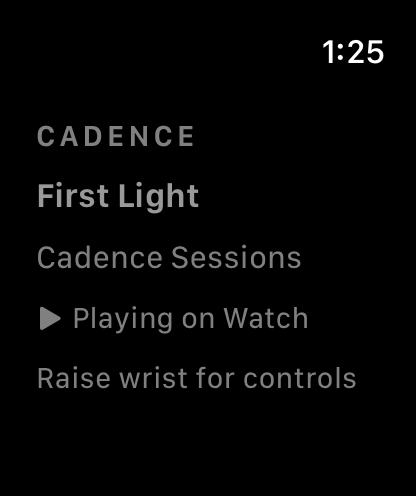
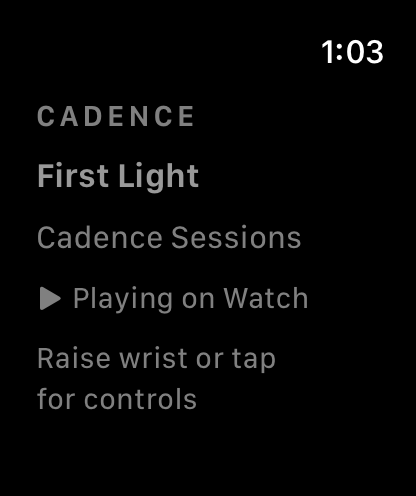
fix: recover Watch playback controls on wake
Restore controls when the scene activates ahead of luminance updates, retain player/navigation and volume identity through dimming, and provide a tap recovery action. Preserve active Watch playback when automatic phone activity arrives.

Verify 17 native UI cases on each simulator size, including repeated wrist states, accessibility, and background/dimmed playback beyond 30 seconds. The physical Series 9 stop and return-to-clock report still requires device confirmation.

diff --git a/Apps/Watch/WatchViews.swift b/Apps/Watch/WatchViews.swift
@@ -4,46 +4,58 @@ import CadenceCore
 
 struct WatchRoot:View {
     @Environment(\.isLuminanceReduced) private var dimmed
+    @Environment(\.scenePhase) private var phase
     @EnvironmentObject var store:WatchStore
     @State private var tab=0
     @State private var choosingSource=false
+    @State private var requestedControls=false
     @AppStorage("playbackSource") private var source="watch"
+    // Lifecycle and luminance notifications can arrive in either order on wake.
+    private var ambient:Bool{dimmed && phase != .active && !requestedControls}
     private var deviceName:String{source=="phone" ? "iPhone" : source=="mac" ? "Mac" : "This Watch"}
     private var deviceIcon:String{source=="phone" ? "iphone" : source=="mac" ? "laptopcomputer" : "applewatch"}
     var body:some View {
-        Group{
-        if dimmed{NavigationStack{WatchAmbientPlayer(audio:store.audio,bridge:store.bridge,source:source)}.navigationBarTitleDisplayMode(.inline)}
-        else{NavigationStack{
-            Group{
-                if source=="phone" || source=="mac"{
-                    PhoneRemoteView(bridge:store.bridge,target:source,useOffline:{source="watch";tab=0},controlsActive:!choosingSource).id(source)
-                }else{
-                    TabView(selection:$tab){
-                        WatchMixView(local:store.local,audio:store.audio,onPlay:{song in store.play(song);tab=1}).tag(0)
-                        WatchPlayer(audio:store.audio,local:store.local,showLibrary:{tab=0},crownActive:tab==1 && !choosingSource).tag(1)
-                        WatchSettings(local:store.local,bridge:store.bridge).tag(2)
-                    }.tabViewStyle(.page(indexDisplayMode:.automatic))
-                }
+        NavigationStack{
+            ZStack{
+                ZStack{content}.opacity(ambient ? 0 : 1).allowsHitTesting(!ambient).accessibilityElement(children:.contain).accessibilityHidden(ambient)
+                if ambient{WatchAmbientPlayer(audio:store.audio,bridge:store.bridge,source:source,showControls:{requestedControls=true;showPlayer()})}
             }.navigationBarTitleDisplayMode(.inline).toolbar{
-                ToolbarItem(placement:.topBarLeading){
-                    Button{choosingSource=true}label:{HStack(spacing:4){Image(systemName:deviceIcon);Text(source=="watch" ? "Watch" : deviceName);Image(systemName:"chevron.down").font(.caption2)}.font(.caption2.weight(.semibold))}.buttonStyle(.plain).foregroundStyle(watchLime).accessibilityLabel("Playback device: "+deviceName).accessibilityHint("Choose Watch, iPhone or Mac").accessibilityIdentifier("watch.device")
+                if !ambient{
+                    ToolbarItem(placement:.topBarLeading){
+                        Button{choosingSource=true}label:{HStack(spacing:4){Image(systemName:deviceIcon);Text(source=="watch" ? "Watch" : deviceName);Image(systemName:"chevron.down").font(.caption2)}.font(.caption2.weight(.semibold))}.buttonStyle(.plain).foregroundStyle(watchLime).accessibilityLabel("Playback device: "+deviceName).accessibilityHint("Choose Watch, iPhone or Mac").accessibilityIdentifier("watch.device")
+                    }
                 }
             }
-        }}
         }.sheet(isPresented:$choosingSource){WatchSourcePicker(source:$source)}
-            .onChange(of:dimmed){_,value in if value{choosingSource=false}else if source=="watch",store.audio.current != nil{tab=1}}
+            .onChange(of:phase){_,value in
+                if value == .active{showPlayer()}
+                else{requestedControls=false;choosingSource=false}
+            }
+            .onChange(of:dimmed){_,value in if !value{requestedControls=false}else if phase != .active{choosingSource=false}}
             .onChange(of:source){_,value in
                 if value=="phone" || value=="mac"{store.audio.pause();store.bridge.requestPlayback(target:value)}
                 else{tab=store.audio.current == nil ? 0 : 1}
             }
             .onAppear{
                 if !["phone","mac","watch"].contains(source) || ProcessInfo.processInfo.arguments.contains("--demo"){source="watch"}
-                if store.audio.current != nil{tab=1}
+                showPlayer()
                 #if DEBUG
                 if ProcessInfo.processInfo.arguments.contains("--watch-ui-testing"),ProcessInfo.processInfo.arguments.contains("--remote-now-playing"){WatchDelegate().handleRemoteNowPlayingActivity()}
                 #endif
             }
     }
+    @ViewBuilder private var content:some View {
+        if source=="phone" || source=="mac"{
+            PhoneRemoteView(bridge:store.bridge,target:source,useOffline:{source="watch";tab=0},controlsActive:!choosingSource && !ambient).id(source)
+        }else{
+            TabView(selection:$tab){
+                WatchMixView(local:store.local,audio:store.audio,onPlay:{song in store.play(song);tab=1}).tag(0)
+                WatchPlayer(audio:store.audio,local:store.local,showLibrary:{tab=0},crownActive:tab==1 && !choosingSource && !ambient).tag(1)
+                WatchSettings(local:store.local,bridge:store.bridge).tag(2)
+            }.tabViewStyle(.page(indexDisplayMode:.automatic))
+        }
+    }
+    private func showPlayer(){if source=="watch",store.audio.current != nil{tab=1}}
 }
 
 struct WatchSourcePicker:View {
@@ -154,9 +166,7 @@ struct WatchPlayer:View {
                 if let song=audio.current{
                     HStack(spacing:4){
                         WatchTrackHeading(song:song,showsArtwork:false)
-                        if crownActive && scenePhase == .active && presented==nil{
-                            WatchVolume(active:!voiceOver).frame(width:50,height:50).accessibilityLabel("Watch volume").accessibilityHint("Turn the Digital Crown to adjust headphone volume").accessibilityIdentifier("watch.volume")
-                        }else{Image(systemName:"speaker.wave.2.fill").frame(width:50,height:50).accessibilityHidden(true)}
+                        WatchVolume(active:crownActive && scenePhase == .active && presented==nil && !voiceOver).frame(width:50,height:50).accessibilityLabel("Watch volume").accessibilityHint("Turn the Digital Crown to adjust headphone volume").accessibilityIdentifier("watch.volume")
                     }
                     WatchTransport(isPlaying:audio.isPlaying,device:"Watch",previous:{audio.previous()},toggle:{audio.toggle()},next:{audio.next()})
                     Button{presented = .seek}label:{VStack(spacing:3){ProgressView(value:min(max(0,audio.elapsed),max(audio.duration,1)),total:max(audio.duration,1)).tint(watchLime);HStack{Text(watchTime(audio.elapsed));Spacer();Text(watchTime(audio.duration))}.font(.caption2.monospacedDigit()).foregroundStyle(.secondary)}.frame(minHeight:44).contentShape(Rectangle())}.buttonStyle(.plain).disabled(audio.duration<=0).accessibilityLabel("Seek in track").accessibilityValue(watchTime(audio.elapsed)+" of "+watchTime(audio.duration)).accessibilityIdentifier("watch.seek")
@@ -179,6 +189,8 @@ struct WatchPlayer:View {
             case .seek:if let song=audio.current{WatchSeekView(song:song,elapsed:audio.elapsed,duration:audio.duration,commit:{if audio.current?.id==song.id{audio.seek($0)}})}
             }
         }.onChange(of:audio.current?.id){_,_ in if presented == .seek{presented=nil}}
+            .onChange(of:scenePhase){_,value in if value != .active{presented=nil}}
+            .onChange(of:crownActive){_,value in if !value{presented=nil}}
     }
 }
 

diff --git a/Tests/WatchUI/CadenceWatchUITests.swift b/Tests/WatchUI/CadenceWatchUITests.swift
@@ -28,6 +28,72 @@ final class CadenceWatchUITests:XCTestCase {
         reveal(apply,in:app);apply.tap();XCTAssertTrue(transport.waitForExistence(timeout:5))
         if transport.label=="Pause Watch"{transport.tap()}
     }
+    func testAutomaticPhoneActivityDoesNotStopWatchPlayback(){
+        let app=XCUIApplication();app.launchArguments=["--demo","--watch-ui-testing","--watch-lifecycle-fixture"];app.launch()
+        let play=app.buttons["watch.play"];XCTAssertTrue(play.waitForExistence(timeout:15));play.tap()
+        let transport=app.buttons["watch.transport.play"]
+        XCTAssertEqual(XCTWaiter.wait(for:[XCTNSPredicateExpectation(predicate:NSPredicate(format:"label == %@","Pause Watch"),object:transport)],timeout:8),.completed)
+        app.buttons["watch.fixture.phone-event"].tap()
+        XCTAssertEqual(app.buttons["watch.device"].firstMatch.label,"Playback device: This Watch","An automatic phone event must not take over an active Watch session")
+        XCTAssertTrue(transport.exists);XCTAssertEqual(transport.label,"Pause Watch")
+    }
+    func testDimmedScreenCanBeTappedToShowControls(){
+        let app=XCUIApplication();app.launchArguments=["--demo","--watch-ui-testing","--watch-lifecycle-fixture"];app.launch()
+        let play=app.buttons["watch.play"];XCTAssertTrue(play.waitForExistence(timeout:15));play.tap()
+        let transport=app.buttons["watch.transport.play"];XCTAssertTrue(transport.waitForExistence(timeout:8))
+        app.buttons["watch.fixture.lifecycle"].tap()
+        let ambient=app.buttons["watch.ambient"];XCTAssertTrue(ambient.waitForExistence(timeout:5));ambient.tap()
+        XCTAssertTrue(transport.waitForExistence(timeout:5));XCTAssertTrue(transport.isHittable)
+    }
+    func testWakeRestoresControlsBeforeLuminanceRefresh(){
+        let app=XCUIApplication();app.launchArguments=["--demo","--watch-ui-testing","--watch-lifecycle-fixture"];app.launch()
+        let play=app.buttons["watch.play"];XCTAssertTrue(play.waitForExistence(timeout:15));play.tap()
+        let transport=app.buttons["watch.transport.play"];XCTAssertTrue(transport.waitForExistence(timeout:8))
+        XCTAssertEqual(XCTWaiter.wait(for:[XCTNSPredicateExpectation(predicate:NSPredicate(format:"label == %@","Pause Watch"),object:transport)],timeout:8),.completed)
+        transport.tap()
+        let lifecycle=app.buttons["watch.fixture.lifecycle"]
+        for _ in 0..<3{
+            lifecycle.tap();XCTAssertTrue(app.descendants(matching:.any)["watch.ambient"].firstMatch.waitForExistence(timeout:5))
+            lifecycle.tap()
+            XCTAssertTrue(transport.waitForExistence(timeout:5),"An active scene must restore controls even before the luminance signal catches up")
+            XCTAssertTrue(transport.isHittable);XCTAssertEqual(transport.label,"Play Watch")
+            lifecycle.tap()
+        }
+        let queue=app.buttons["watch.queue"];reveal(queue,in:app);queue.tap()
+        XCTAssertTrue(app.staticTexts["Up next · 2"].waitForExistence(timeout:5),"Wrist transitions must preserve the queue")
+    }
+    func testPlaybackAdvancesWhileDimmedAndRestoresOnWake(){
+        let app=XCUIApplication();app.launchArguments=["--demo","--watch-ui-testing","--watch-lifecycle-fixture"];app.launch()
+        let play=app.buttons["watch.play"];XCTAssertTrue(play.waitForExistence(timeout:15));play.tap()
+        let transport=app.buttons["watch.transport.play"]
+        XCTAssertEqual(XCTWaiter.wait(for:[XCTNSPredicateExpectation(predicate:NSPredicate(format:"label == %@","Pause Watch"),object:transport)],timeout:8),.completed)
+        app.buttons["watch.fixture.lifecycle"].tap()
+        XCTAssertTrue(app.buttons["watch.ambient"].waitForExistence(timeout:5))
+        let elapsed=expectation(description:"Thirty-five seconds in the dimmed layout")
+        DispatchQueue.main.asyncAfter(deadline:.now()+35){elapsed.fulfill()}
+        XCTAssertEqual(XCTWaiter.wait(for:[elapsed],timeout:38),.completed)
+        app.buttons["watch.fixture.lifecycle"].tap()
+        XCTAssertTrue(transport.waitForExistence(timeout:8));XCTAssertEqual(transport.label,"Pause Watch")
+        let heading=app.descendants(matching:.any)["watch.track"].firstMatch
+        XCTAssertTrue(heading.waitForExistence(timeout:5));XCTAssertFalse(heading.label.contains("First Light"))
+        capture("Watch after dimmed playback and wake");transport.tap()
+    }
+    func testPlaybackContinuesPastThirtySecondsInBackground(){
+        let app=launch(),play=app.buttons["watch.play"];XCTAssertTrue(play.waitForExistence(timeout:15));play.tap()
+        let transport=app.buttons["watch.transport.play"]
+        XCTAssertTrue(transport.waitForExistence(timeout:8))
+        XCTAssertEqual(XCTWaiter.wait(for:[XCTNSPredicateExpectation(predicate:NSPredicate(format:"label == %@","Pause Watch"),object:transport)],timeout:8),.completed)
+        XCUIDevice.shared.press(.home)
+        let elapsed=expectation(description:"Thirty-five seconds with the app backgrounded")
+        DispatchQueue.main.asyncAfter(deadline:.now()+35){elapsed.fulfill()}
+        XCTAssertEqual(XCTWaiter.wait(for:[elapsed],timeout:38),.completed)
+        app.activate()
+        XCTAssertTrue(transport.waitForExistence(timeout:8));XCTAssertEqual(transport.label,"Pause Watch")
+        let heading=app.descendants(matching:.any)["watch.track"].firstMatch
+        XCTAssertTrue(heading.waitForExistence(timeout:5));XCTAssertFalse(heading.label.contains("First Light"),"Audio must advance beyond the first twenty-second demo track while backgrounded")
+        capture("Watch after background playback")
+        transport.tap()
+    }
     func testCrownDoesNotScrollTheNowPlayingControls(){
         let app=launch(),play=app.buttons["watch.play"];XCTAssertTrue(play.waitForExistence(timeout:15));reveal(play,in:app);play.tap()
         let transport=app.buttons["watch.transport.play"];XCTAssertTrue(transport.waitForExistence(timeout:8));let initial=transport.frame.minY
@@ -82,9 +148,10 @@ final class CadenceWatchUITests:XCTestCase {
     func testLargeTextDimmedLayout(){ambientFlow(largeText:true)}
     private func ambientFlow(largeText:Bool=false){
         let app=XCUIApplication();app.launchArguments=["--demo","--watch-ui-testing","--watch-dimmed"];if largeText{app.launchArguments.append("--watch-large-text")};app.launch()
-        XCTAssertTrue(app.otherElements["watch.ambient"].firstMatch.waitForExistence(timeout:10),"Wrist-down mode must use the ambient player")
+        XCTAssertTrue(app.descendants(matching:.any)["watch.ambient"].firstMatch.waitForExistence(timeout:10),"Wrist-down mode must use the ambient player")
         XCTAssertTrue(app.staticTexts["First Light"].exists)
-        XCTAssertFalse(app.buttons["watch.transport.play"].exists,"Bright transport controls must not remain in Always On mode")
+        XCTAssertFalse(app.buttons["watch.transport.play"].isHittable,"The retained transport must be hidden and untappable in Always On mode")
+        XCTAssertNoThrow(try app.performAccessibilityAudit(for:[.hitRegion,.sufficientElementDescription,.contrast,.trait]))
         capture("Watch dimmed player")
     }
     func testDisconnectedMacOffersSavedWatchMusic(){

diff --git a/Apps/Watch/WatchAmbientPlayer.swift b/Apps/Watch/WatchAmbientPlayer.swift
@@ -7,20 +7,25 @@ struct WatchAmbientPlayer:View {
     let audio:AudioController
     let bridge:WatchBridge
     let source:String
+    var showControls:()->Void
     @State private var song:Song?
     @State private var playing=false
     private var device:String{source=="mac" ? "Mac" : source=="phone" ? "iPhone" : "Watch"}
     var body:some View {
-        VStack(alignment:.leading,spacing:9){
+        Button(action:showControls){VStack(alignment:.leading,spacing:9){
             if textSize < .xxxLarge{Text("CADENCE").font(.caption2.weight(.semibold)).tracking(2).foregroundStyle(Color(white:0.5)).accessibilityHidden(true)}
             Text(song?.title ?? "No track selected").font(.headline).lineLimit(3).foregroundStyle(Color(white:0.6))
             if let song{Text(song.subtitle).font(.caption).lineLimit(1).foregroundStyle(Color(white:0.5))}
             Label(source=="watch" ? (playing ? "Playing on Watch" : "Paused on Watch") : "On "+device,systemImage:playing ? "play.fill" : "pause.fill").font(.caption2).foregroundStyle(Color(white:0.5))
-            if textSize < .xxxLarge{Text("Raise wrist for controls").font(.caption2).foregroundStyle(Color(white:0.5))}
-        }.frame(maxWidth:.infinity,maxHeight:.infinity,alignment:.leading).padding(.horizontal,16).background(Color.black).accessibilityElement(children:.contain).accessibilityIdentifier("watch.ambient")
+            if textSize < .xxxLarge{Text("Raise wrist or tap for controls").font(.caption2).foregroundStyle(Color(white:0.5))}
+        }.frame(maxWidth:.infinity,maxHeight:.infinity,alignment:.leading).padding(.horizontal,16).background(Color.black)}.buttonStyle(.plain).accessibilityHint("Show playback controls").accessibilityIdentifier("watch.ambient")
             // Ignore elapsed-time ticks: the dimmed screen only needs track/playing changes.
-            .onReceive(audio.$current.combineLatest(audio.$isPlaying).removeDuplicates{$0.0==$1.0 && $0.1==$1.1}){value in if source=="watch"{song=value.0;playing=value.1}}
-            .onReceive(bridge.$phonePlayback.removeDuplicates{$0?.song==$1?.song && $0?.isPlaying==$1?.isPlaying}){value in if source=="phone"{song=value?.song;playing=value?.isPlaying ?? false}}
-            .onReceive(bridge.$macRemote.map(\.playback).removeDuplicates{$0?.song==$1?.song && $0?.isPlaying==$1?.isPlaying}){value in if source=="mac"{song=value?.song;playing=value?.isPlaying ?? false}}
+            .onReceive(audio.$current.combineLatest(audio.$isPlaying).removeDuplicates{$0.0==$1.0 && $0.1==$1.1}){value in if source=="watch"{update(value.0,playing:value.1)}}
+            .onReceive(bridge.$phonePlayback.removeDuplicates{$0?.song==$1?.song && $0?.isPlaying==$1?.isPlaying}){value in if source=="phone"{update(value?.song,playing:value?.isPlaying ?? false)}}
+            .onReceive(bridge.$macRemote.map(\.playback).removeDuplicates{$0?.song==$1?.song && $0?.isPlaying==$1?.isPlaying}){value in if source=="mac"{update(value?.song,playing:value?.isPlaying ?? false)}}
+    }
+    private func update(_ value:Song?,playing running:Bool){
+        if song != value{song=value}
+        if playing != running{playing=running}
     }
 }

diff --git a/Apps/Watch/CadenceWatchApp.swift b/Apps/Watch/CadenceWatchApp.swift
@@ -12,13 +12,33 @@ import WatchKit
                 #if DEBUG
                 if ProcessInfo.processInfo.arguments.contains("--watch-ui-testing"),ProcessInfo.processInfo.arguments.contains("--watch-dimmed"){reduced=true}
                 #endif
+            }.transformEnvironment(\.scenePhase){phase in
+                #if DEBUG
+                if ProcessInfo.processInfo.arguments.contains("--watch-ui-testing"),ProcessInfo.processInfo.arguments.contains("--watch-dimmed"){phase = .inactive}
+                #endif
             }.environmentObject(store).tint(Color(red:0.84,green:0.96,blue:0.4)).preferredColorScheme(.dark).onChange(of:scenePhase){_,phase in if phase != .active{store.audio.persist()}}}}
     @ViewBuilder private var rootView:some View {
         #if DEBUG
-        if ProcessInfo.processInfo.arguments.contains("--watch-ui-testing"),ProcessInfo.processInfo.arguments.contains("--remote-volume-fixture"){WatchRemoteVolumeFixture()}else{WatchRoot()}
+        if ProcessInfo.processInfo.arguments.contains("--watch-ui-testing"),ProcessInfo.processInfo.arguments.contains("--watch-lifecycle-fixture"){WatchLifecycleFixture()}else if ProcessInfo.processInfo.arguments.contains("--watch-ui-testing"),ProcessInfo.processInfo.arguments.contains("--remote-volume-fixture"){WatchRemoteVolumeFixture()}else{WatchRoot()}
         #else
         WatchRoot()
         #endif
     }
 
 }
+
+#if DEBUG
+private struct WatchLifecycleFixture:View {
+    @State private var step=0
+    var body:some View {
+        WatchRoot().environment(\.scenePhase,step==1 ? .inactive : .active)
+            .environment(\.isLuminanceReduced,step != 0)
+            .overlay(alignment:.bottomLeading){Button("Phone event"){WatchDelegate().handleRemoteNowPlayingActivity()}.font(.caption2).buttonStyle(.plain).padding(5).background(.black,in:Capsule()).accessibilityIdentifier("watch.fixture.phone-event")}
+            .overlay(alignment:.bottomTrailing){
+                Button(step==0 ? "Lower wrist" : step==1 ? "Raise wrist" : "Finish wake"){step=(step+1)%3}
+                    .font(.caption2).buttonStyle(.plain).padding(5).background(.black,in:Capsule())
+                    .accessibilityIdentifier("watch.fixture.lifecycle")
+            }
+    }
+}
+#endif

diff --git a/Apps/Watch/PhoneRemoteView.swift b/Apps/Watch/PhoneRemoteView.swift
@@ -47,6 +47,7 @@ struct PhoneRemoteView:View {
             }.padding(.horizontal,6).padding(.top,4).padding(.bottom,14)
         }.sheet(isPresented:$seeking){if let state,let song=state.song{WatchSeekView(song:song,elapsed:state.elapsed,duration:state.duration,commit:{if connected,self.state?.song?.id==song.id{control(.seek,value:$0)}})}}
             .onChange(of:state?.song?.id){_,_ in seeking=false}
+            .onChange(of:controlsActive){_,value in if !value{seeking=false}}
             .task(id:scenePhase){
                 guard scenePhase == .active else{return}
                 while !Task.isCancelled{

diff --git a/Apps/Watch/WatchStore.swift b/Apps/Watch/WatchStore.swift
@@ -88,7 +88,8 @@ import CadenceCore
     func applicationDidFinishLaunching(){_ = WatchStore.shared;_ = WatchBackgroundTracker.shared}
     func handleRemoteNowPlayingActivity(){
         let store=WatchStore.shared
-        store.audio.pause()
+        // Automatic activity may arrive late; only an explicit device choice can stop a run.
+        guard !store.audio.isPlaying else{return}
         UserDefaults.standard.set("phone",forKey:"playbackSource")
         store.bridge.requestPlayback(target:"phone")
     }

diff --git a/Apps/Watch/WatchPlaybackViews.swift b/Apps/Watch/WatchPlaybackViews.swift
@@ -19,7 +19,7 @@ struct WatchTrackHeading:View {
                 Text(song.title).font(.headline).lineLimit(2)
                 Text(song.subtitle).font(.caption2).foregroundStyle(.secondary).lineLimit(1)
             }.frame(maxWidth:.infinity,alignment:.leading)
-        }.accessibilityElement(children:.combine)
+        }.accessibilityElement(children:.combine).accessibilityIdentifier("watch.track")
     }
 }
 

diff --git a/docs/WATCH-ACCESSIBILITY.md b/docs/WATCH-ACCESSIBILITY.md
@@ -2,15 +2,15 @@
 
 Cadence uses native watchOS controls and the existing iPhone/Mac companion protocol. This review covers the music player, not every optional Apple Watch capability. Hardware behavior and battery measurements are separate from simulator verification.
 
-## Implemented baseline in 0.7.4
+## Implemented baseline in 0.7.5
 
 | Feature | Implementation and verification boundary |
 |---|---|
 | Digital Crown: Watch audio | The visible player gives Apple's local volume control focus. Focus is released for another page, a sheet, an inactive scene or VoiceOver. Crown input no longer scrolls the player in the regression test. Real headphone loudness still needs a device check. |
 | Digital Crown: iPhone/Mac | The volume control adjusts the existing Cadence player volume command, bounded to 0–100%, with coalesced messages. A real Crown-input fixture verifies the component's output; it does not certify a live peer connection. |
-| Always On | `isLuminanceReduced` switches to a black, gray-text player without artwork, bright fills or playback buttons. It observes track/playing changes without subscribing to elapsed-time ticks. watchOS controls physical brightness; no measured battery saving is claimed. |
+| Always On | Reduced luminance while inactive shows a black, gray-text player without artwork or bright fills. An active scene restores controls even if the luminance notification is delayed. Tapping the dimmed display also shows controls. The normal player/navigation hierarchy stays mounted. It observes track/playing changes without subscribing to elapsed-time ticks. watchOS controls physical brightness; no measured battery saving is claimed. |
 | Double tap | Default system list/scroll behavior remains. Custom Play/Pause is withheld: synthetic Double Tap followed by touch input failed in the tested simulator, while the same touch flow without the gesture passed. Physical mixed-input verification is needed before adding it. |
-| iPhone audio auto-launch | The real `handleRemoteNowPlayingActivity()` delegate selects iPhone controls when watchOS delivers its audio launch event. OS delivery depends on the user's audio auto-launch settings; the handler/UI route is exercised in tests. |
+| iPhone audio auto-launch | The real `handleRemoteNowPlayingActivity()` delegate selects iPhone controls when watchOS delivers its audio launch event and local Watch audio is not playing. Active Watch playback retains ownership; explicit device selection can still switch devices. OS delivery depends on the user's audio auto-launch settings; the handler/UI route is exercised in tests. |
 | Playback basics | Play/Pause, previous/next, shuffle, repeat off/all/one, local queue/seek, saved-playlist selection and position/queue resume. Existing background audio, route interruption and system media-control behavior remain. |
 | Screen-reader semantics | Named controls, current selection, shuffle/repeat values, volume percentages, adjustable remote volume and named removal actions for queue entries/playlists. Destructive library actions retain confirmation. |
 | VoiceOver focus | Automatic Crown volume focus is suppressed while VoiceOver is enabled so the app does not seize navigation from the screen reader. Native volume/slider controls and explicit actions remain available. |
@@ -28,7 +28,7 @@ AssistiveTouch, VoiceOver and double tap have system-defined interactions; Caden
 ## Device checks still required
 
 - Confirm physical headphone loudness changes with the Crown, including after returning from the queue and after waking.
-- Confirm Always On becomes the gray-text layout, restores controls on wrist raise, and keeps music/next-track playback running.
+- Confirm Always On becomes the gray-text layout, restores controls on wrist raise or tap, and keeps music/next-track playback running for several minutes. A 30-second physical stop/return-to-clock report is not certified resolved by simulator tests.
 - Compare battery use over a representative session; screenshots cannot measure display nits or energy consumption.
 - Confirm real VoiceOver reading order, adjustable volume, named removal actions and AssistiveTouch navigation.
 - Check maximum text size, Bold Text, Zoom, Reduce Motion and Reduce Transparency on the user's Watch.

diff --git a/docs/QA.md b/docs/QA.md
@@ -79,3 +79,16 @@ The accessibility audits cover touch regions, element descriptions, contrast and
 A proposed custom Double Tap Play/Pause action was withheld. Its synthetic gesture changed playback, but subsequent touch input failed in the tested simulator; the same touch flow without the gesture passed. The narrowed three-case sequence reproduced the problem, while the two-case sequence without the gesture passed. Button-style and focus-release changes did not resolve it and were reverted. No custom primary hand-gesture action is registered in the shipping candidate. This is not a claim that the issue reproduces on physical hardware.
 
 The final Watch app/UI-test bundle builds unsigned, and paired iPhone/Watch archive/export passed with matching 0.7.4 (20), background audio declarations and no private server defaults or signing keys embedded. Shared playback code is unchanged. Existing 0.7.3 Core/iPhone/Mac results remain the preceding baseline; this update adds Watch-focused execution evidence. Real headphone loudness, VoiceOver/AssistiveTouch, actual auto-launch, wrist-down/background behavior and battery measurements remain physical checks. See [the feature audit](WATCH-ACCESSIBILITY.md).
+
+
+## 0.7.5 (21) wrist wake and local playback recovery
+
+The user reported local Series 9 playback stopping after about 30 seconds and returning to the watch face. The physical Watch was unavailable to the Mac, and no submitted TestFlight crash feedback was available. No physical crash/route cause is claimed proven.
+
+Two real app paths reproduced separate failures before the fix: the player stayed hidden when the scene became active before the reduced-luminance value cleared; an automatic phone Now Playing activity paused an active Watch session and selected iPhone. Both regressions passed after the active-scene override and active-Watch ownership guard. Explicit device selection still pauses local playback and switches the target.
+
+The normal navigation/player tree and native volume control now retain their identity during dimming. Crown focus is released when inactive; the dimmed display has a native button action to restore controls. Ambient tests assert the retained transport is hidden and untappable, rather than asserting that its view was deleted. Scoped accessibility audits also exercise the dimmed display.
+
+The added native UI checks cover three wrist-state cycles with a paused queue preserved, tap recovery, automatic phone activity, and two distinct longer-playback paths. One injects inactive/reduced-luminance UI signals for over 35 seconds; the other sends the real Home button event, leaves the app backgrounded for over 35 seconds and activates it again. Both require playback to remain playing and to have advanced beyond the first 20-second original demo track. Injected signals are test fixtures, not a physical wrist sensor; simulator background success does not certify physical Watch execution budgets, Bluetooth routing or battery life.
+
+The final suite passed all 17 cases on each of the 40 mm and 46 mm simulators (34 successful executions), including both longer playback paths and the normal/larger-text dimmed accessibility audits. Shared playback code is unchanged. Physical Series 9 confirmation of the reported stop/return-to-clock remains pending.

diff --git a/docs/LISTENING-AND-WATCH.md b/docs/LISTENING-AND-WATCH.md
@@ -50,13 +50,13 @@ Remote playback shows the selected device and its playing, paused or unavailable
 
 These changes improve software behavior and simulator usability. Physical Bluetooth, wrist-down/background playback and phone-off acceptance remain pending.
 
-### Native input and Always On in 0.7.4
+### Native input and Always On in 0.7.5
 
-The player now focuses the visible local volume control for the Digital Crown. iPhone/Mac volume uses the same bounded remote volume command as before, with a focused Crown control and slider/accessible adjustment alternatives. Native volume views are mounted only on the active player page; queue/seek sheets and other pages retain their navigation focus. VoiceOver suppresses automatic volume focus.
+The player now focuses the visible local volume control for the Digital Crown. iPhone/Mac volume uses the same bounded remote volume command as before, with a focused Crown control and slider/accessible adjustment alternatives. The native volume view retains its identity; only the active player requests Crown focus. Queue/seek sheets and other pages retain their navigation focus. VoiceOver suppresses automatic volume focus.
 
-Wrist-down Always On rendering uses `isLuminanceReduced`: black background, gray track/artist/status text, no artwork or large bright fills, and no elapsed-time labels. It preserves the audio controller; raising the wrist returns to the player. watchOS owns actual screen brightness. This improves the supplied pixels; it is not a measured claim about battery life.
+Wrist-down Always On rendering uses `isLuminanceReduced`: black background, gray track/artist/status text, no artwork or large bright fills, and no elapsed-time labels. It preserves the audio controller. In 0.7.5 the normal navigation/player hierarchy also remains mounted, an active scene restores controls ahead of a delayed brightness notification, and tapping the gray display provides a fallback. watchOS owns actual screen brightness. This improves the supplied pixels; it is not a measured claim about battery life.
 
-The native iPhone audio-launch event opens iPhone controls when the system delivers it. Actual auto-launch remains controlled by watchOS and the user's settings.
+The native iPhone audio-launch event opens iPhone controls when the system delivers it. Actual auto-launch remains controlled by watchOS and the user's settings. Automatic activity does not take over an actively playing local Watch session; choose iPhone explicitly to switch during a run.
 
 See the [Watch accessibility and feature review](WATCH-ACCESSIBILITY.md) for supported controls, automated-check scope, physical checks and optional features that are not implemented.
 

diff --git a/docs/BUILDING.md b/docs/BUILDING.md
@@ -84,6 +84,6 @@ xcodebuild -project Cadence.xcodeproj -scheme CadenceWatch \
   -derivedDataPath .build/WatchTests CODE_SIGN_IDENTITY=- test
 ```
 
-The Watch UI suite uses the bundled original demo audio with muted output. It covers device selection, the disconnected Mac fallback, local playback, queue navigation, seeking, Crown input, the dimmed layout, touch pause/resume, iPhone audio-launch routing and scoped accessibility audits. It needs no live server, shared credentials or real Mac connection. The large-text case injects SwiftUI `xxxLarge` in Debug only, because this watchOS simulator runtime does not support `simctl ui content_size`; it does not change system preferences. Repeat on a small Watch; screenshots are stored in the result bundle. The hosted job builds the Watch app and its UI test bundle without signing; it does not install a Watch runtime or claim to execute these UI checks. Physical-device acceptance is separate.
+The Watch UI suite uses the bundled original demo audio with muted output. It covers device selection, the disconnected Mac fallback, local playback, queue navigation, seeking, Crown input, the dimmed layout, touch pause/resume, repeated wrist-state transitions, tap recovery, background/dimmed playback beyond 30 seconds, iPhone audio-launch routing and scoped accessibility audits. It needs no live server, shared credentials or real Mac connection. The large-text case injects SwiftUI `xxxLarge` in Debug only, because this watchOS simulator runtime does not support `simctl ui content_size`; it does not change system preferences. Repeat on a small Watch; screenshots are stored in the result bundle. The hosted job builds the Watch app and its UI test bundle without signing; it does not install a Watch runtime or claim to execute these UI checks. Physical-device acceptance is separate.
 
 The accessibility audits cover touch regions, descriptions, contrast and traits; they do not replace a real VoiceOver, AssistiveTouch or headphone test. See [Watch accessibility](WATCH-ACCESSIBILITY.md) for the verification boundaries.

diff --git a/CHANGELOG.md b/CHANGELOG.md
@@ -2,6 +2,14 @@
 
 Versions below describe implementation milestones. Public binary availability is separate; see [release guidance](docs/RELEASE.md).
 
+## 0.7.5 (21) — 9 November 2026
+
+- Restore the player as soon as the Watch scene becomes active, including when the brightness notification arrives later.
+- Keep one navigation/player hierarchy through dimming and waking; retain the native volume control while releasing inactive Crown focus.
+- Make the dimmed display tappable to restore controls and close playback sheets during inactive transitions.
+- Prevent automatic iPhone audio activity from pausing or taking over an actively playing Watch session; explicit device selection still switches playback.
+- Add repeated wrist-state, tap recovery, automatic activity and longer background/dimmed playback regressions. Physical Watch crash and battery acceptance remain separate.
+
 ## 0.7.4 (20) — 9 November 2026
 
 - Add a minimal gray-on-black Always On player and restore normal controls on wake without changing the audio session.
